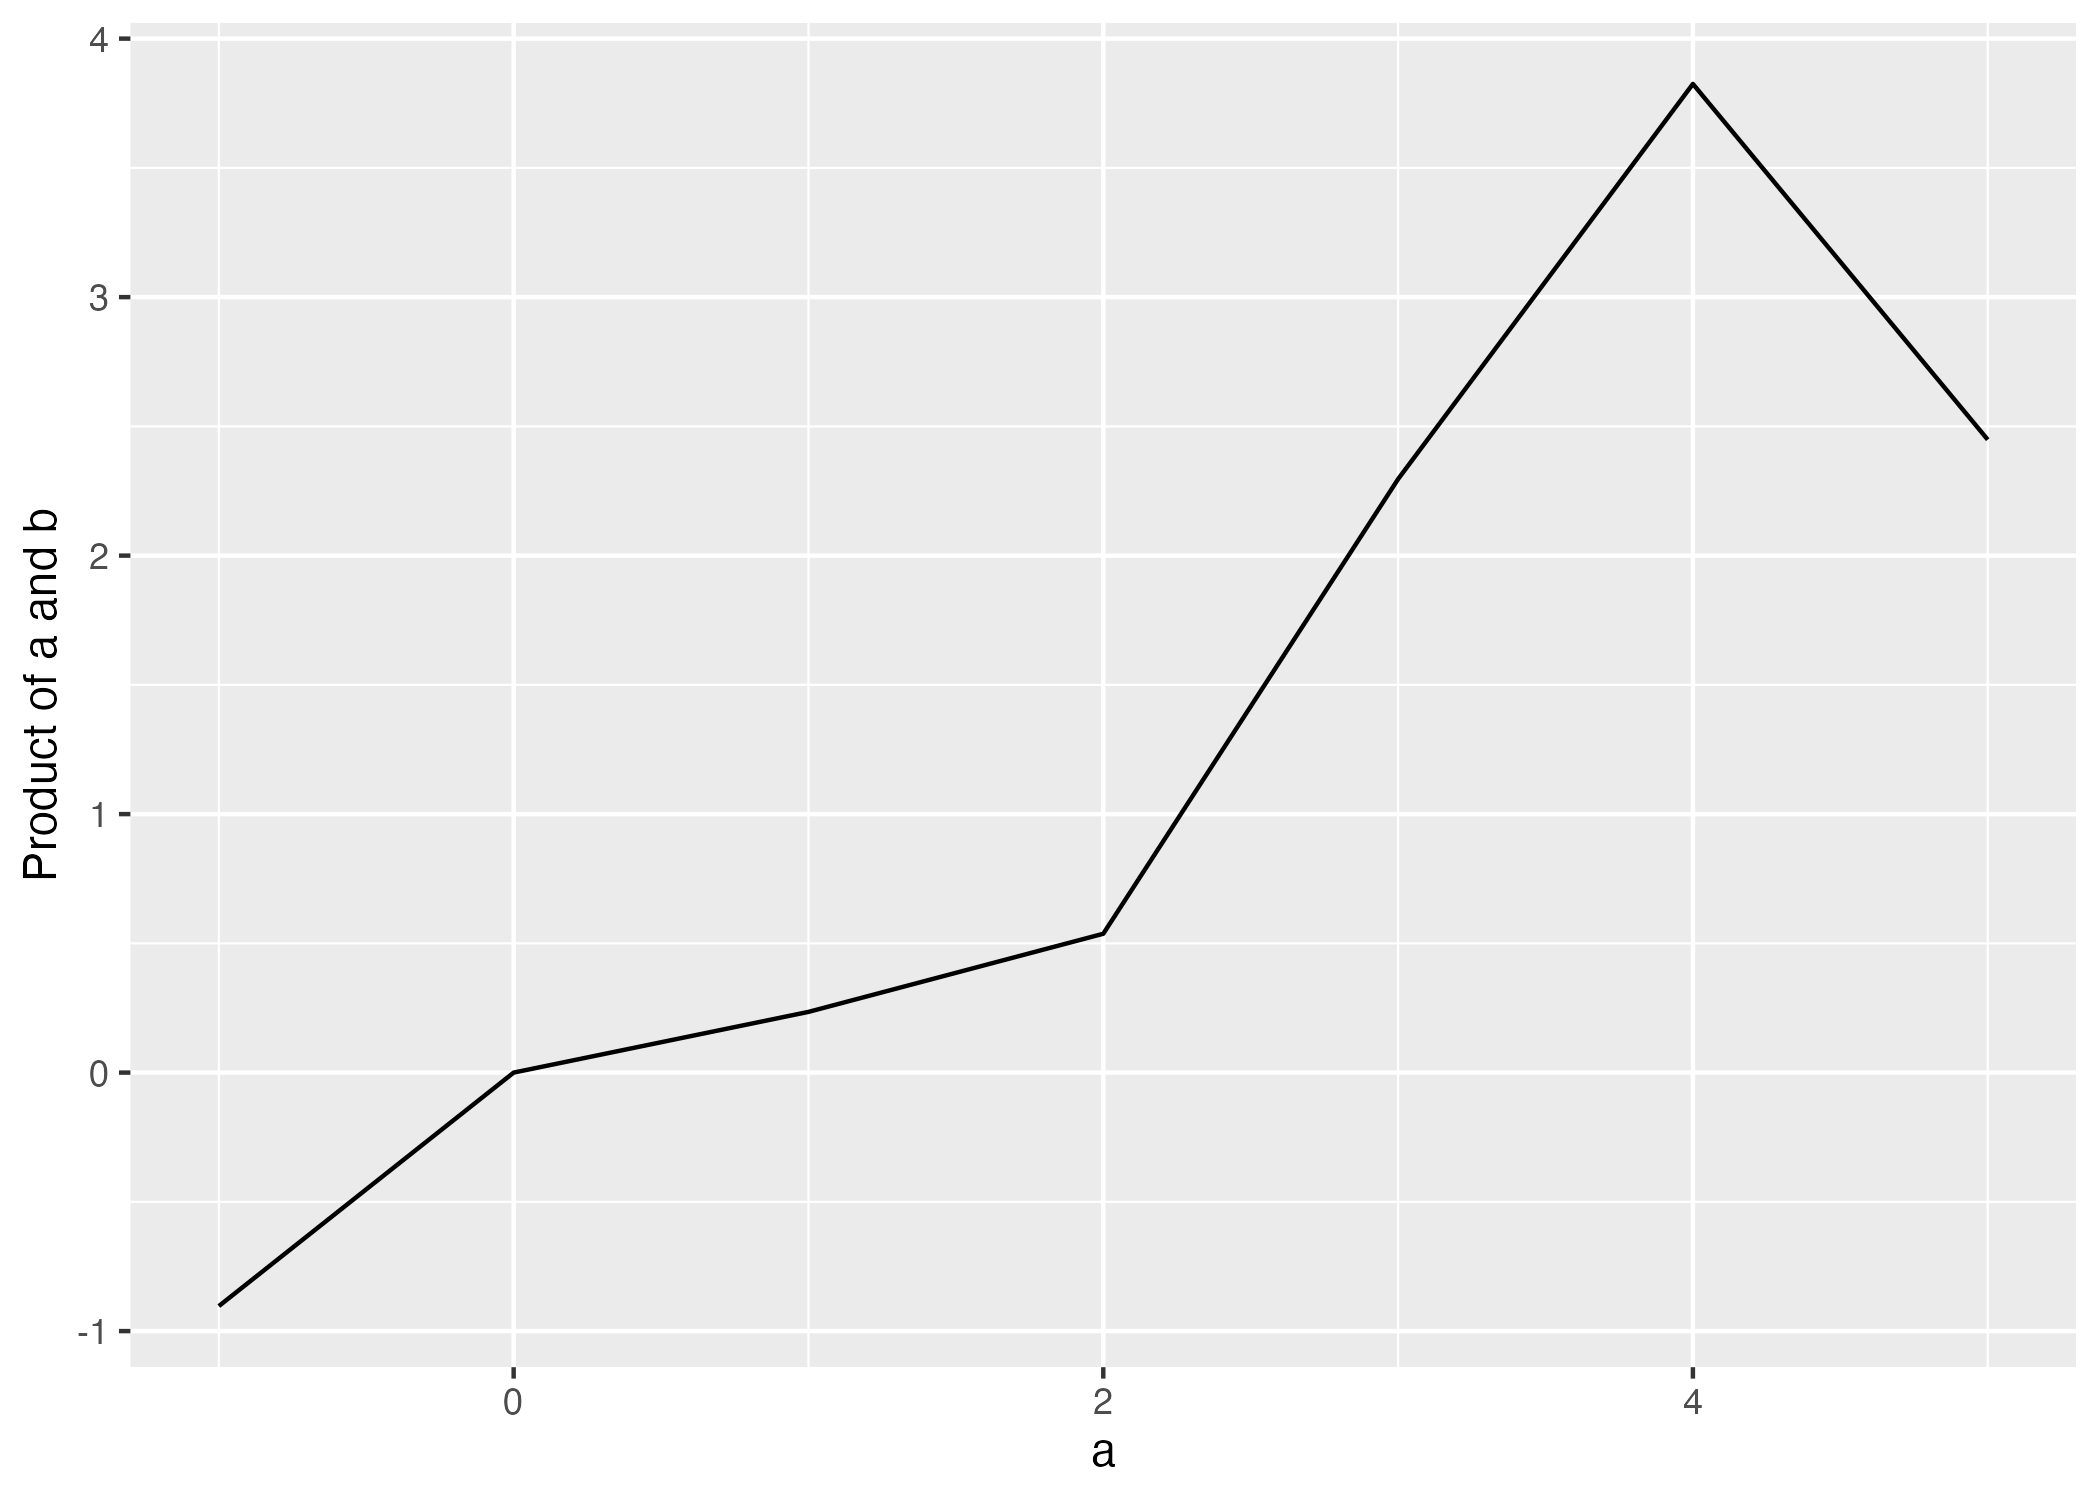
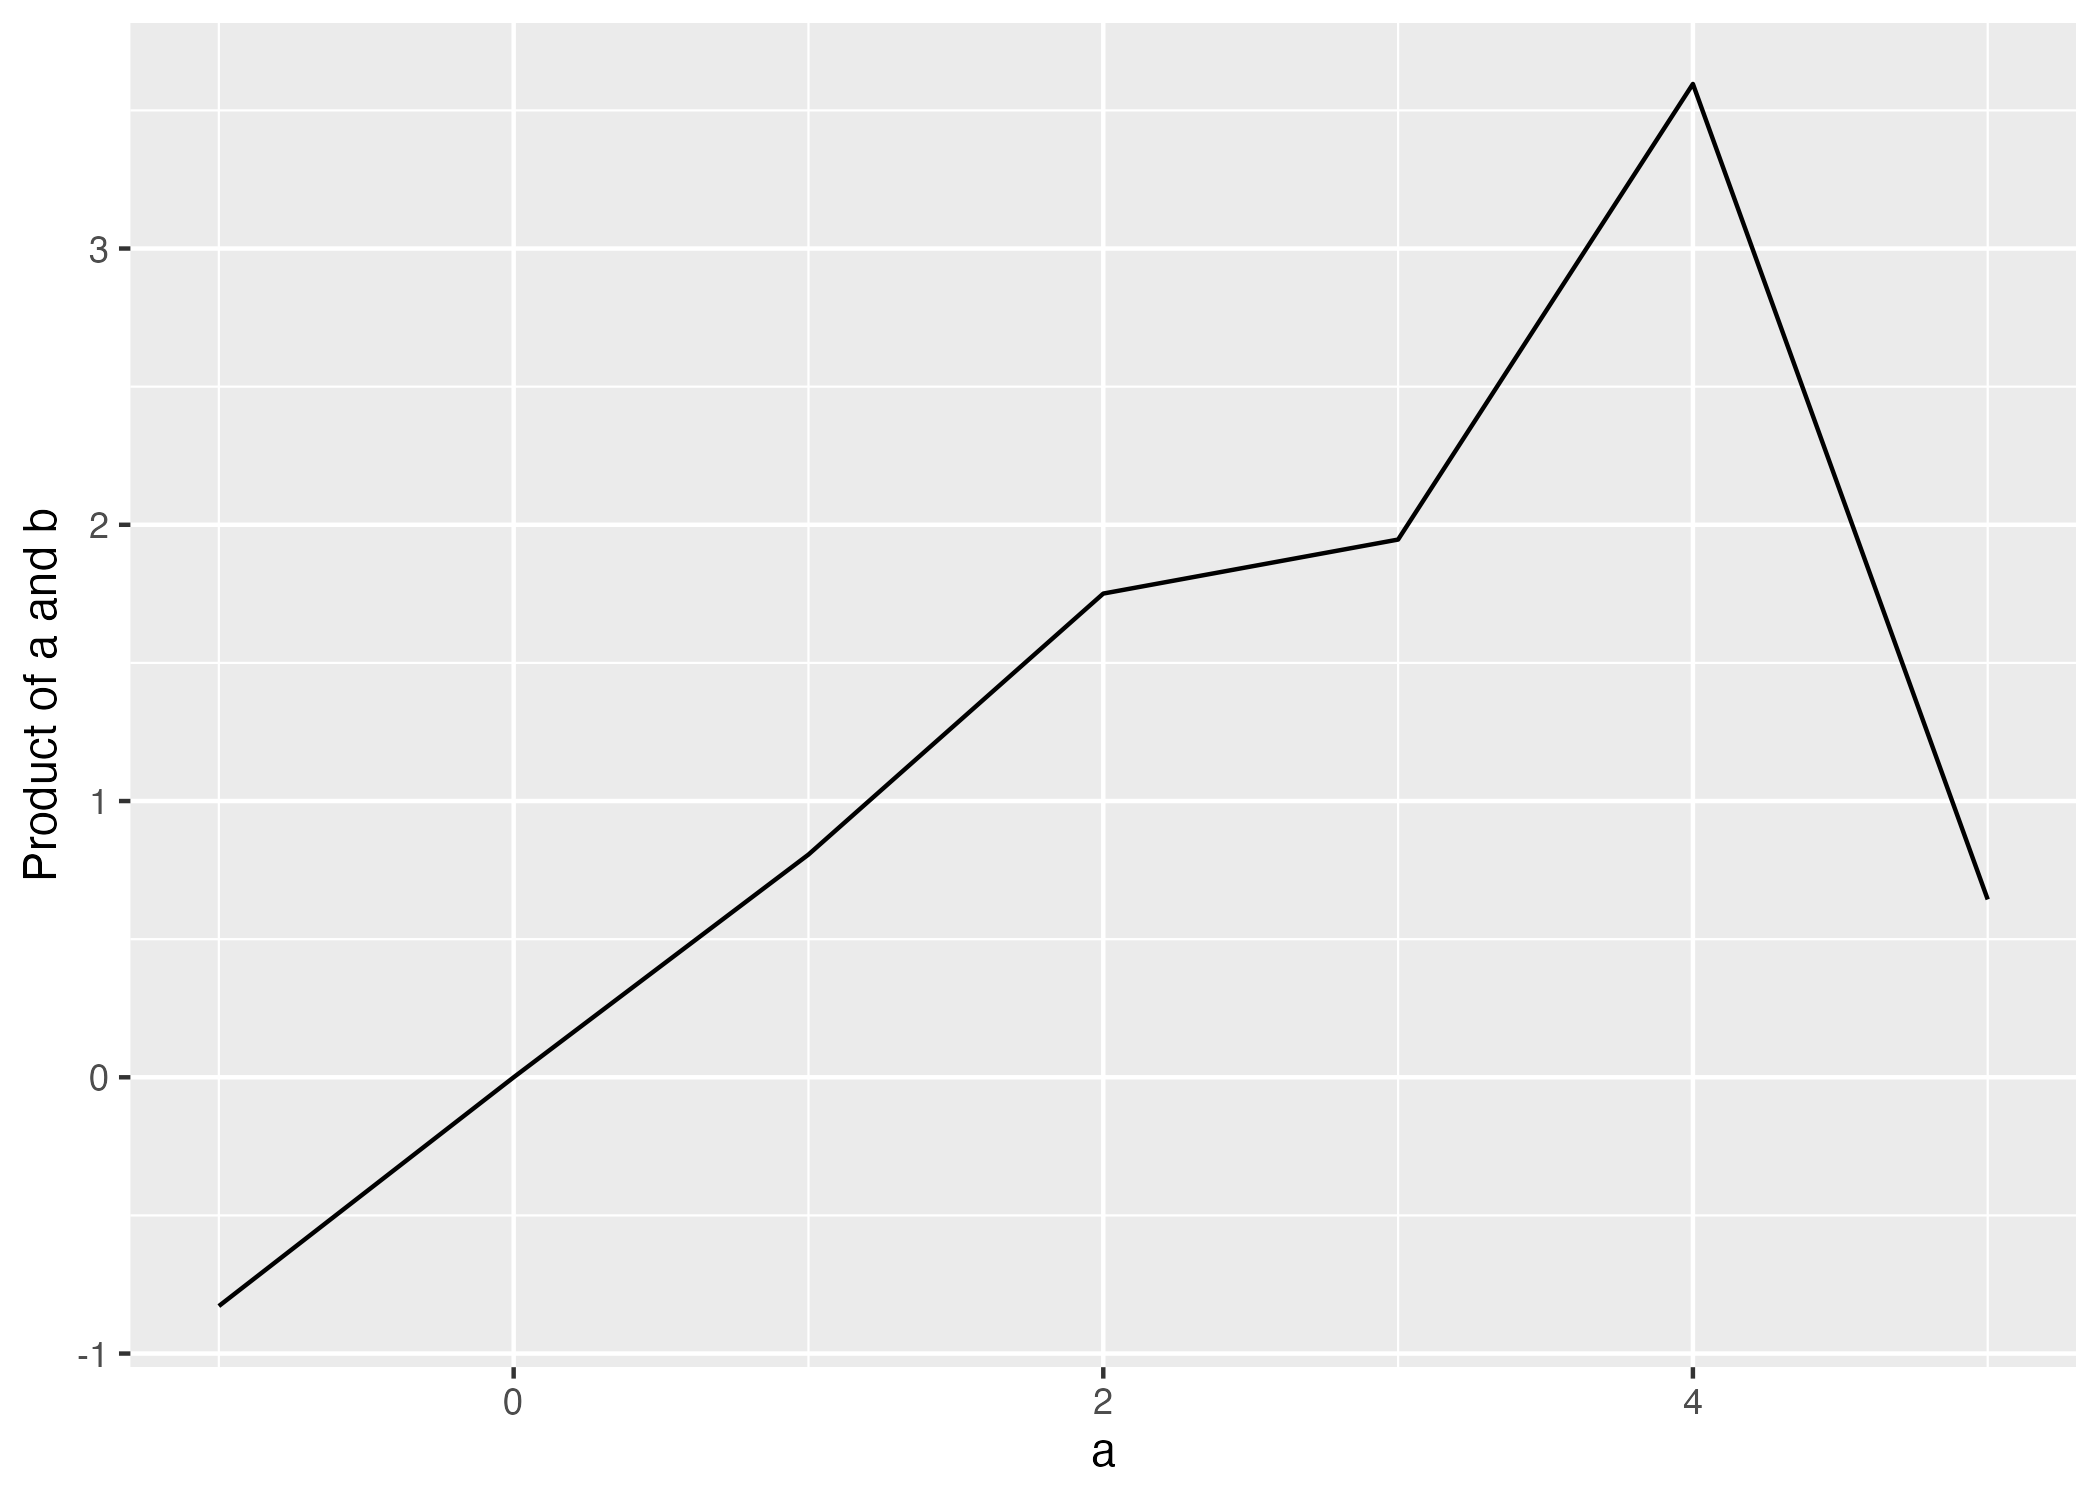
update ch 3

diff --git a/docs/01-computer-setup.html b/docs/01-computer-setup.html
@@ -670,7 +670,7 @@ window.Quarto = {
 <div class="code-copy-outer-scaffold"><div class="sourceCode cell-code" id="cb16"><pre class="sourceCode r code-with-copy"><code class="sourceCode r"><span id="cb16-1"><a href="#cb16-1" aria-hidden="true" tabindex="-1"></a>b <span class="ot">&lt;-</span> <span class="fu">runif</span>(<span class="dv">7</span>, <span class="at">min=</span><span class="dv">0</span>, <span class="at">max=</span><span class="dv">1</span>)</span>
 <span id="cb16-2"><a href="#cb16-2" aria-hidden="true" tabindex="-1"></a>b</span></code></pre></div><button title="Copy to Clipboard" class="code-copy-button"><i class="bi"></i></button></div>
 <div class="cell-output cell-output-stdout">
-<pre><code>[1] 0.90326753 0.09441894 0.23484819 0.26855885 0.76534881 0.95617811 0.48972049</code></pre>
+<pre><code>[1] 0.8281836 0.1302440 0.8062714 0.8754984 0.6488389 0.8989504 0.1287426</code></pre>
 </div>
 </div>
 <p>These will differ every time you do this.</p>
@@ -685,11 +685,11 @@ window.Quarto = {
 </div>
 <div class="code-copy-outer-scaffold"><div class="sourceCode cell-code" id="cb20"><pre class="sourceCode r code-with-copy"><code class="sourceCode r"><span id="cb20-1"><a href="#cb20-1" aria-hidden="true" tabindex="-1"></a>b</span></code></pre></div><button title="Copy to Clipboard" class="code-copy-button"><i class="bi"></i></button></div>
 <div class="cell-output cell-output-stdout">
-<pre><code>[1] 0.90326753 0.09441894 0.23484819 0.26855885 0.76534881 0.95617811 0.48972049</code></pre>
+<pre><code>[1] 0.8281836 0.1302440 0.8062714 0.8754984 0.6488389 0.8989504 0.1287426</code></pre>
 </div>
 <div class="code-copy-outer-scaffold"><div class="sourceCode cell-code" id="cb22"><pre class="sourceCode r code-with-copy"><code class="sourceCode r"><span id="cb22-1"><a href="#cb22-1" aria-hidden="true" tabindex="-1"></a>ab</span></code></pre></div><button title="Copy to Clipboard" class="code-copy-button"><i class="bi"></i></button></div>
 <div class="cell-output cell-output-stdout">
-<pre><code>[1] -0.9032675  0.0000000  0.2348482  0.5371177  2.2960464  3.8247124  2.4486025</code></pre>
+<pre><code>[1] -0.8281836  0.0000000  0.8062714  1.7509968  1.9465168  3.5958017  0.6437130</code></pre>
 </div>
 </div>
 <p>You can confirm at a glance that the first and second elements in <code>a</code> times the first and second elements in <code>b</code> equal the first and second elements in <code>ab</code>.</p>
@@ -702,14 +702,14 @@ window.Quarto = {
 <div class="code-copy-outer-scaffold"><div class="sourceCode cell-code" id="cb24"><pre class="sourceCode r code-with-copy"><code class="sourceCode r"><span id="cb24-1"><a href="#cb24-1" aria-hidden="true" tabindex="-1"></a>d <span class="ot">&lt;-</span> <span class="fu">data.frame</span>(<span class="at">a=</span>a, <span class="at">b=</span>b, <span class="at">a_times_b =</span> ab)</span>
 <span id="cb24-2"><a href="#cb24-2" aria-hidden="true" tabindex="-1"></a>d</span></code></pre></div><button title="Copy to Clipboard" class="code-copy-button"><i class="bi"></i></button></div>
 <div class="cell-output cell-output-stdout">
-<pre><code>   a          b  a_times_b
-1 -1 0.90326753 -0.9032675
-2  0 0.09441894  0.0000000
-3  1 0.23484819  0.2348482
-4  2 0.26855885  0.5371177
-5  3 0.76534881  2.2960464
-6  4 0.95617811  3.8247124
-7  5 0.48972049  2.4486025</code></pre>
+<pre><code>   a         b  a_times_b
+1 -1 0.8281836 -0.8281836
+2  0 0.1302440  0.0000000
+3  1 0.8062714  0.8062714
+4  2 0.8754984  1.7509968
+5  3 0.6488389  1.9465168
+6  4 0.8989504  3.5958017
+7  5 0.1287426  0.6437130</code></pre>
 </div>
 </div>
 <p>You could examine the structure of this data frame with <code>str()</code>.</p>
@@ -718,8 +718,8 @@ window.Quarto = {
 <div class="cell-output cell-output-stdout">
 <pre><code>'data.frame':   7 obs. of  3 variables:
  $ a        : int  -1 0 1 2 3 4 5
- $ b        : num  0.9033 0.0944 0.2348 0.2686 0.7653 ...
- $ a_times_b: num  -0.903 0 0.235 0.537 2.296 ...</code></pre>
+ $ b        : num  0.828 0.13 0.806 0.875 0.649 ...
+ $ a_times_b: num  -0.828 0 0.806 1.751 1.947 ...</code></pre>
 </div>
 </div>
 <p>You will also notice now that you can see all of our objects in the Environment pane, in the upper right of RStudio.</p>

diff --git a/docs/02-global_temp_anomalies.html b/docs/02-global_temp_anomalies.html
@@ -301,7 +301,7 @@ gtag('config', 'G-J0R6F7XN66', { 'anonymize_ip': true});
 <li>Use R to display estimates of global temperature anomalies.</li>
 <li>Describe the current temperature trajectory.</li>
 <li>Compare and contrast changes in temperature between humans and Earth.</li>
-<li>Background reading: Hansen et al.&nbsp;(2012). Perception of climate change. *Proceedings of the National Academy of Sciences, U.S.A.</li>
+<li>Background reading: Hansen et al.&nbsp;(2012). Perception of climate change. <em>Proceedings of the National Academy of Sciences</em>, U.S.A.</li>
 </ul>
 </section>
 <section id="background" class="level2" data-number="3.2">
